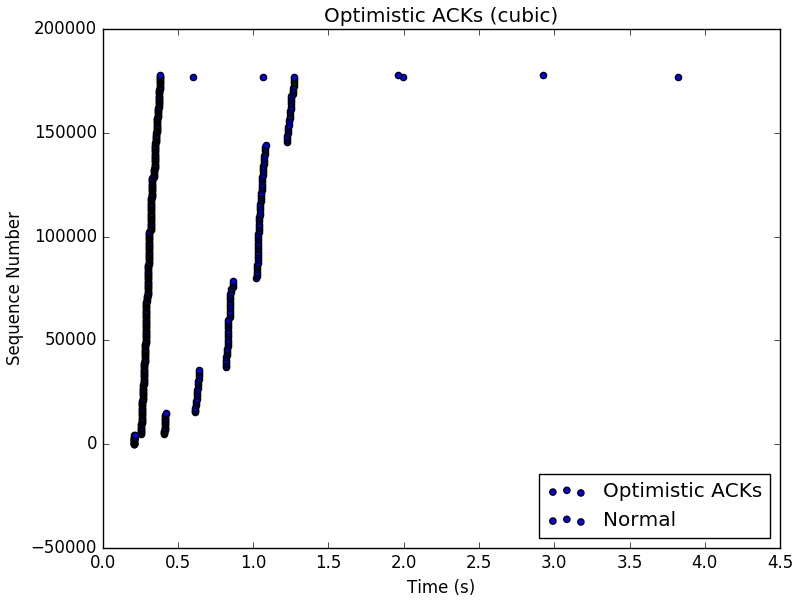
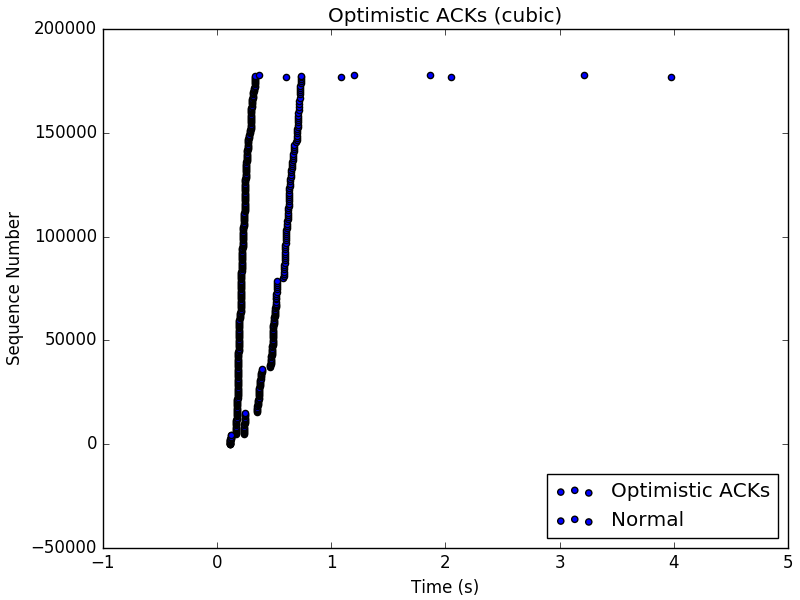
Running basic example plus changes

diff --git a/topo.py b/topo.py
@@ -49,10 +49,10 @@ class NodeGenerator(Topo):
     # - RTT
     # - BW
     # - Queue size
-    self.addLink(server, switch, bw=500, delay="50ms",
-    	loss = 0, max_queue_size = 256);
-    self.addLink(client, switch, bw=500, delay="50ms",
-    	loss = 0, max_queue_size = 256);
+    self.addLink(server, switch, bw=100, delay="28ms",
+    	loss = 0, max_queue_size = 128);
+    self.addLink(client, switch, bw=100, delay="28ms",
+    	loss = 0, max_queue_size = 128);
     return
 
 
